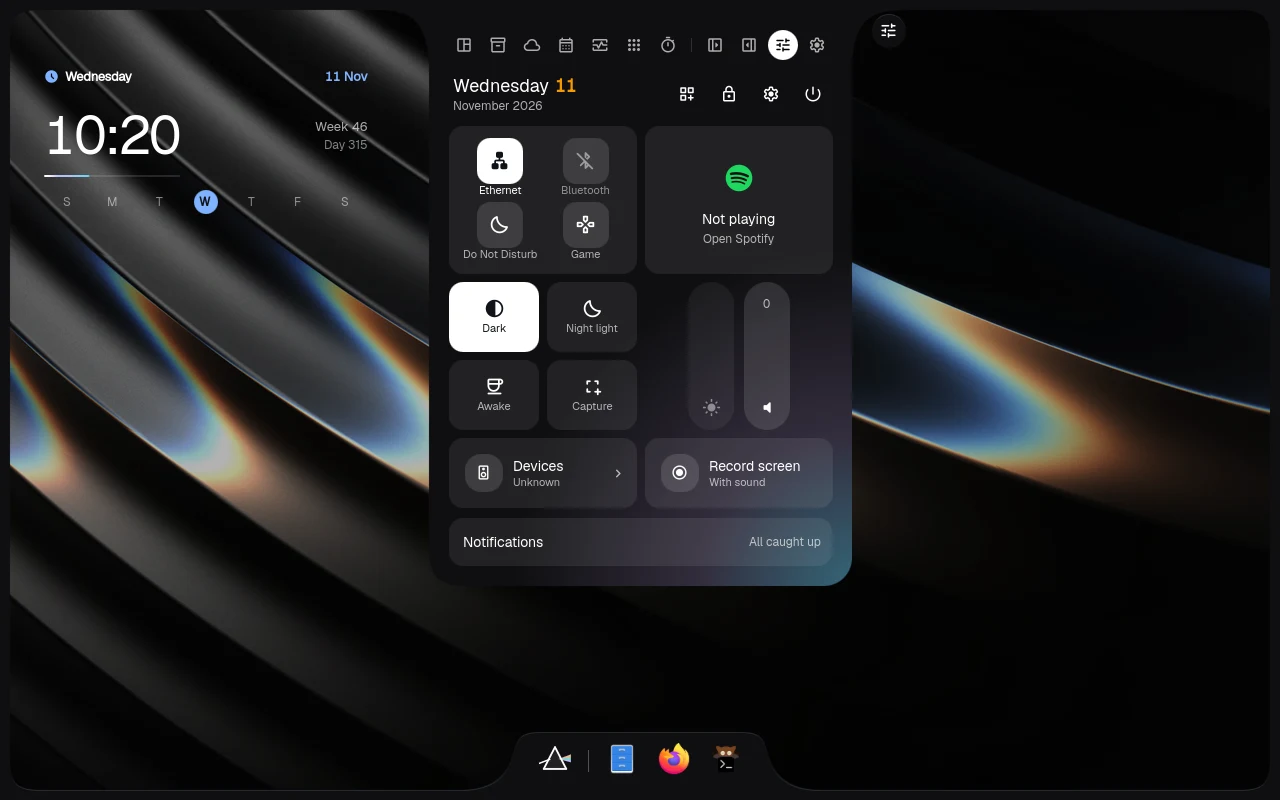
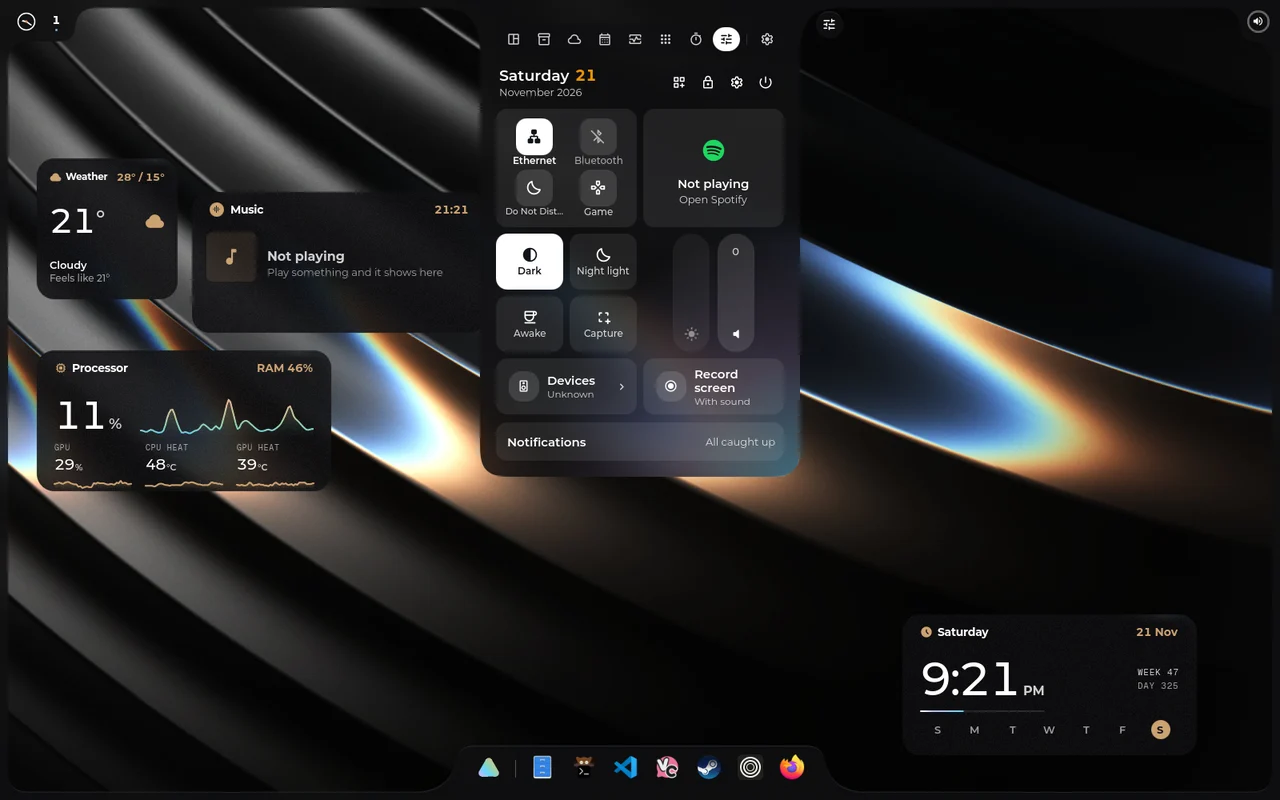
feat(prism): a spectrum mark, hour and smoked glass
The scribbled prism gives way to one solid prism lit by the spectrum.
The resting Island shows the hour over a short line of the spectrum,
which opens under the pointer. Prism wears the spectrum light on the
desktop widgets and keeps its near-black over any wallpaper (tint 0.84).
The docs and the preview follow.

This code was written by: Hikari.

diff --git a/designs/prism/island/Face.qml b/designs/prism/island/Face.qml
@@ -1,140 +1,53 @@
 pragma ComponentBehavior: Bound
 import QtQuick
-import QtQuick.Shapes
-import QtQuick.Effects
-import qs
-import qs.services
-import qs.modules.common
-import qs.modules.common.functions
 import qs.modules.iris.style
 import qs.modules.iris.components
 
-// Prism's Island face: the hour is the prism. A thread of white light enters from the strip's start and meets the time;
-// the spectrum leaves its far side as a fan, from a point, wider and softer as it goes (Prism's refraction, the one in
-// its Settings hero). Beam and fan are equally long, so the hour stays in the middle of the strip. At rest the light is
-// low; under the pointer it comes up full. Only the rest belongs to it: a song rides as the engine's wings, the rest of
-// the Island's moments are the engine's.
+// Prism's Island face: the hour over a short line of the spectrum (IrisStyle.prismStops, the shell's one), the light
+// the hour splits into. No beam or fan beside it (his 11-21: they read as a scribble): the line sits centred under the
+// figures and opens to their full width under the pointer. Only the rest belongs to it: a song rides as the engine's
+// wings, the rest of the Island's moments are the engine's.
 Item {
     id: root
     property var island: null
     readonly property var modes: ["idle", "clock"]
     readonly property real d: IrisStyle.density
     readonly property real h: root.island?.compactHeight ?? 42
-    // How far the light runs on each side of the hour, and the air between it and the figures.
-    readonly property real reach: Math.round(Math.max(20 * root.d, root.h * 0.78))
-    readonly property real gap: Math.round(6 * root.d)
-    readonly property real contentWidth: clock.implicitWidth + 2 * (root.reach + root.gap)
-    readonly property real line: Math.max(1.5, Math.round(2 * root.d))
-    readonly property real mid: root.height / 2
-    // The light climbs as it crosses the hour, lower left to upper right like the refraction in Prism's hero: the beam
-    // enters from below the middle, the fan leaves above it, wider than it came.
-    readonly property real rise: Math.round(root.h * 0.16)
-    readonly property real fanTop: root.mid - root.rise - Math.round(root.h * 0.2)
-    readonly property real fanFoot: root.mid - root.rise + Math.round(root.h * 0.2)
-
-    // The light's strength: quiet at rest, full under the pointer.
-    property real glow: hover.hovered ? 1 : 0.72 // iris-literal: the light at rest, a quiet share of full
-    Behavior on glow { NumberAnimation { duration: IrisStyle.motionEnabled ? 280 : 0; easing.type: Easing.OutCubic } }
-    HoverHandler { id: hover }
-
-    // White light on a dark body, the ink on a light one.
-    readonly property color white: IrisStyle.text
-    // The spectrum is the shell's one (IrisStyle.prismStops, violet to red): soft and even, leaning to the accent.
+    readonly property real pad: Math.round(Math.max(14 * root.d, root.h * 0.36))
+    readonly property real contentWidth: clock.implicitWidth + 2 * root.pad
+    readonly property real line: Math.max(2, Math.round(2 * root.d))
+    readonly property real gap: Math.max(2, Math.round(3 * root.d))
     readonly property var stops: IrisStyle.prismStops
+
+    HoverHandler { id: hover }
 
     IrisClock {
         id: clock
-        anchors.centerIn: parent
+        anchors.horizontalCenter: parent.horizontalCenter
+        // The hour and its line stand as one block in the strip's middle.
+        y: Math.round((root.height - clock.height - root.gap - root.line) / 2)
         family: IrisStyle.figureFace(pixelSize)
         minorFamily: family
         pixelSize: root.island?.figureSize ?? IrisStyle.typeHeadline
         separatorColor: IrisStyle.textSecondary
     }
 
-    // The beam: a thread from the strip's start, below the middle, brightening as it reaches the hour.
-    Shape {
-        x: clock.x - root.gap - root.reach
-        width: root.reach
-        height: root.height
-        opacity: root.glow
-        preferredRendererType: Shape.CurveRenderer
-        ShapePath {
-            strokeWidth: root.line
-            capStyle: ShapePath.RoundCap
-            fillColor: "transparent"
-            strokeGradient: LinearGradient {
-                x1: 0; y1: 0
-                x2: root.reach; y2: 0
-                GradientStop { position: 0; color: ColorUtils.applyAlpha(root.white, 0) }
-                GradientStop { position: 0.6; color: ColorUtils.applyAlpha(root.white, 0.5) }
-                GradientStop { position: 1; color: root.white }
-            }
-            startX: 0; startY: root.mid + root.rise
-            PathLine { x: root.reach; y: root.mid }
-        }
-    }
-
-    // The fan (pin-spectrum-burst, pin-prism-beam): one sweep of light from a point, its colours running into each
-    // other with no band between them, red above and violet below, wider and fainter as it leaves.
-    Item {
-        id: fan
-        x: clock.x + clock.width + root.gap
-        width: root.reach
-        height: root.height
-        opacity: root.glow
-        readonly property real degrees: 180 / Math.PI
-        readonly property real upper: Math.atan2(root.mid - root.fanTop, fan.width) * fan.degrees
-        readonly property real lower: Math.atan2(root.mid - root.fanFoot, fan.width) * fan.degrees
-        readonly property real sweep: (fan.upper - fan.lower) / 360
-        function at(index: int): real { return fan.sweep * index / 6 }
-
-        Shape {
-            id: light
-            anchors.fill: parent
-            visible: false
-            layer.enabled: true
-            layer.smooth: true
-            preferredRendererType: Shape.CurveRenderer
-            ShapePath {
-                strokeWidth: -1
-                strokeColor: "transparent"
-                fillGradient: ConicalGradient {
-                    centerX: 0; centerY: root.mid
-                    angle: fan.lower
-                    GradientStop { position: fan.at(0); color: root.stops[0] }
-                    GradientStop { position: fan.at(1); color: root.stops[1] }
-                    GradientStop { position: fan.at(2); color: root.stops[2] }
-                    GradientStop { position: fan.at(3); color: root.stops[3] }
-                    GradientStop { position: fan.at(4); color: root.stops[4] }
-                    GradientStop { position: fan.at(5); color: root.stops[5] }
-                    GradientStop { position: fan.at(6); color: root.stops[6] }
-                }
-                startX: 0; startY: root.mid
-                PathLine { x: fan.width; y: root.fanTop }
-                PathLine { x: fan.width; y: root.fanFoot }
-                PathLine { x: 0; y: root.mid }
-            }
-        }
-        // Full where it leaves the hour, gone at the strip's end.
-        Rectangle {
-            id: fall
-            anchors.fill: parent
-            visible: false
-            layer.enabled: true
-            gradient: Gradient {
-                orientation: Gradient.Horizontal
-                GradientStop { position: 0; color: "white" } // iris-literal: a mask's alpha
-                GradientStop { position: 0.5; color: Qt.rgba(1, 1, 1, 0.8) } // iris-literal: a mask's alpha
-                GradientStop { position: 1; color: "transparent" }
-            }
-        }
-        MultiEffect {
-            anchors.fill: parent
-            source: light
-            maskEnabled: true
-            maskSource: fall
-            maskThresholdMin: 0.5
-            maskSpreadAtMin: 1
+    Rectangle {
+        anchors.horizontalCenter: parent.horizontalCenter
+        y: clock.y + clock.height + root.gap
+        height: root.line
+        radius: IrisStyle.capsule(height)
+        width: Math.round(clock.width * (hover.hovered ? 1 : 0.42))
+        Behavior on width { NumberAnimation { duration: IrisStyle.duration(260); easing.type: Easing.OutCubic } }
+        gradient: Gradient {
+            orientation: Gradient.Horizontal
+            GradientStop { position: 0; color: root.stops[0] }
+            GradientStop { position: 1 / 6; color: root.stops[1] }
+            GradientStop { position: 2 / 6; color: root.stops[2] }
+            GradientStop { position: 3 / 6; color: root.stops[3] }
+            GradientStop { position: 4 / 6; color: root.stops[4] }
+            GradientStop { position: 5 / 6; color: root.stops[5] }
+            GradientStop { position: 1; color: root.stops[6] }
         }
     }
 }

diff --git a/designs/prism/parts/Insignia.qml b/designs/prism/parts/Insignia.qml
@@ -1,73 +1,68 @@
 import QtQuick
 import QtQuick.Shapes
-import qs.modules.common.functions
 import qs.modules.iris.style
 
-// The Prism insignia: a glass triangle in the ink, a thread of light entering its left face and the spectrum leaving
-// its right one. Drawn on a 100-unit grid and scaled to the host's size; small, the fan keeps three bands. A host that
-// asks for a colour other than the accent (a lit tile's ink) gets the whole mark in that colour.
+// The Prism insignia: one prism, its corners rounded, lit through with the spectrum from its lower left to its upper
+// right (IrisStyle.prismStops, the shell's one). A single solid shape, nothing around it (his 11-21: the beam and fan
+// round a stroked triangle read as a scribble in the Dock), so it reads the same at a Dock's size and at a page's. A
+// host that asks for a colour other than the accent (a lit tile's ink) gets the prism in that colour.
 Item {
     id: root
     property Item host: null
     property color ink: !root.host || Qt.colorEqual(root.host.color, IrisStyle.accent) ? IrisStyle.text : root.host.color
     readonly property bool mono: !!root.host && !Qt.colorEqual(root.host.color, IrisStyle.accent)
-    readonly property real size: Math.min(width, height)
-    readonly property real unit: root.size / 100
-    readonly property bool small: root.size < 40
-    // The spectrum, the shell's one (IrisStyle.prismStops, violet to red); in one colour, that ink fading.
     readonly property var stops: IrisStyle.prismStops
-    function tone(index: int): color {
-        return root.mono ? ColorUtils.applyAlpha(root.ink, 0.25 + 0.6 * index / 6) : root.stops[index]
+    function tone(index: int): color { return root.mono ? root.ink : root.stops[index] }
+
+    // An even triangle on a 100-unit grid, its point up, its corners round; the shape sits centred in the box.
+    readonly property real side: 96
+    readonly property real tall: root.side * Math.sqrt(3) / 2
+    readonly property real corner: 13
+    // How far each corner's curve starts from the point it rounds (the corner's radius over tan 30°).
+    readonly property real cut: root.corner * Math.sqrt(3)
+    // The rounded shape stands from the top curve's crest to the base: centre that span.
+    readonly property real apex: 50 - (root.tall - root.corner) / 2 - root.corner
+    readonly property point a: Qt.point(50, root.apex)
+    readonly property point b: Qt.point(50 + root.side / 2, root.apex + root.tall)
+    readonly property point c: Qt.point(50 - root.side / 2, root.apex + root.tall)
+    function toward(from: point, to: point, by: real): point {
+        const len = Math.hypot(to.x - from.x, to.y - from.y)
+        return Qt.point(from.x + (to.x - from.x) * by / len, from.y + (to.y - from.y) * by / len)
     }
-    // The fan leaves the right face from one point: one sweep of light, no band between its colours.
-    readonly property real upper: Math.atan2(50 - 36, 38) * 180 / Math.PI
-    readonly property real lower: Math.atan2(50 - 60, 38) * 180 / Math.PI
-    function at(index: int): real { return (root.upper - root.lower) / 360 * index / 6 }
+    readonly property point ab: root.toward(root.a, root.b, root.cut)
+    readonly property point ba: root.toward(root.b, root.a, root.cut)
+    readonly property point bc: root.toward(root.b, root.c, root.cut)
+    readonly property point cb: root.toward(root.c, root.b, root.cut)
+    readonly property point ca: root.toward(root.c, root.a, root.cut)
+    readonly property point ac: root.toward(root.a, root.c, root.cut)
 
     Shape {
         width: 100
         height: 100
         anchors.centerIn: parent
-        scale: root.unit
+        scale: Math.min(root.width, root.height) / 100
         preferredRendererType: Shape.CurveRenderer
-        // The beam, from the lower left into the left face.
-        ShapePath {
-            strokeWidth: root.small ? 4.5 : 2.5
-            strokeColor: root.ink
-            capStyle: ShapePath.RoundCap
-            fillColor: "transparent"
-            startX: 3; startY: 63
-            PathLine { x: 34; y: 51 }
-        }
         ShapePath {
             strokeWidth: -1
             strokeColor: "transparent"
-            fillGradient: ConicalGradient {
-                centerX: 60; centerY: 50
-                angle: root.lower
-                GradientStop { position: root.at(0); color: root.tone(0) }
-                GradientStop { position: root.at(1); color: root.tone(1) }
-                GradientStop { position: root.at(2); color: root.tone(2) }
-                GradientStop { position: root.at(3); color: root.tone(3) }
-                GradientStop { position: root.at(4); color: root.tone(4) }
-                GradientStop { position: root.at(5); color: root.tone(5) }
-                GradientStop { position: root.at(6); color: root.tone(6) }
+            fillGradient: LinearGradient {
+                x1: root.c.x; y1: root.c.y
+                x2: root.b.x; y2: root.a.y
+                GradientStop { position: 0; color: root.tone(0) }
+                GradientStop { position: 1 / 6; color: root.tone(1) }
+                GradientStop { position: 2 / 6; color: root.tone(2) }
+                GradientStop { position: 3 / 6; color: root.tone(3) }
+                GradientStop { position: 4 / 6; color: root.tone(4) }
+                GradientStop { position: 5 / 6; color: root.tone(5) }
+                GradientStop { position: 1; color: root.tone(6) }
             }
-            startX: 60; startY: 50
-            PathLine { x: 98; y: 36 }
-            PathLine { x: 98; y: 60 }
-            PathLine { x: 60; y: 50 }
-        }
-        // The glass: drawn last so the light meets its faces.
-        ShapePath {
-            strokeWidth: root.small ? 5.5 : 3.5
-            strokeColor: root.ink
-            joinStyle: ShapePath.RoundJoin
-            fillColor: ColorUtils.applyAlpha(root.ink, 0.08)
-            startX: 50; startY: 14
-            PathLine { x: 84; y: 80 }
-            PathLine { x: 16; y: 80 }
-            PathLine { x: 50; y: 14 }
+            startX: root.ab.x; startY: root.ab.y
+            PathLine { x: root.ba.x; y: root.ba.y }
+            PathArc { x: root.bc.x; y: root.bc.y; radiusX: root.corner; radiusY: root.corner }
+            PathLine { x: root.cb.x; y: root.cb.y }
+            PathArc { x: root.ca.x; y: root.ca.y; radiusX: root.corner; radiusY: root.corner }
+            PathLine { x: root.ac.x; y: root.ac.y }
+            PathArc { x: root.ab.x; y: root.ab.y; radiusX: root.corner; radiusY: root.corner }
         }
     }
 }

diff --git a/docs/prism/PRISM.md b/docs/prism/PRISM.md
@@ -15,14 +15,15 @@ were wearing it, iRiS shows again.
 
 - Colour: Prism's three near-blacks and Apple's label inks in dark and ink; in light, Prism's paper whites. Filled
   controls, chosen buttons and today's date are white solids (black in light). Your accent still marks where you are.
-- Shape: Prism's corners (panels 28, cards 18, rows 14) and squircle bubbles and pieces.
-- Material: flat, no rim; each body stands off by its fill. Glass stays your choice.
-- Motion: glide, calm and without bounce.
+- Shape: Prism's corners (panels 28, cards 18, rows 14) and round bubbles and pieces.
+- Material: flat, no rim; each body stands off by its fill. Glass stays your choice, smoked: it keeps Prism's
+  near-black over any wallpaper.
+- Motion: snap, quick and without bounce.
 - Lists and rows: chosen rows and hovers as solid plates, sections ruled by hairlines.
-- Desktop widgets: their Prism faces, frosted glass with one lit colour each. A widget you gave a design of its own
+- Desktop widgets: their Prism faces, their light split into the spectrum. A widget you gave a design of its own
   keeps it.
-- The Island at rest: a thread of white light enters from the left, meets the hour and leaves it as the spectrum.
-  Under the pointer the light comes up full. A song rides beside the hour as usual.
+- The Island at rest: the hour over a short line of the spectrum. Under the pointer the line opens to the hour's
+  full width. A song rides beside the hour as usual.
 
 Everything else (where things are, what shows, your wallpaper, fonts and glass) stays yours. While you wear Prism, the
 rows it decides leave Settings.

diff --git a/designs/prism/README.md b/designs/prism/README.md
@@ -1,13 +1,13 @@
 # Prism
 
 iRiS in the language of Prism, its Settings: the three near-blacks and Apple's label inks, white solids for what is
-chosen, squircle marks, bodies that stand off by their fill, and calm motion. At rest the
-Island's hour is the prism: a thread of white light meets it and leaves as the spectrum.
+chosen, round marks, bodies that stand off by their fill, and quick motion. Its glass keeps a smoked near-black over any
+wallpaper. At rest the Island shows the hour over a short line of the spectrum, which opens under the pointer.
 
 - Wear it: Settings › Style › Design, then Prism. Pick iRiS there to take it off.
 - What it sets (`design.json`): Prism's neutrals in dark, ink and light, white solids (black ones in light) for filled
-  controls and today's date, Prism's corners and squircle pieces, glide motion, and the Prism faces
-  of the desktop widgets. Your accent, highlight, fonts, glass and wallpaper stay yours; your accent still marks where
-  you are.
+  controls and today's date, Prism's corners and round pieces, a smoked tint under glass, quick motion, and the Prism
+  faces of the desktop widgets with their light split into the spectrum. Your accent, highlight, fonts, glass and
+  wallpaper stay yours; your accent still marks where you are.
 - A widget you gave a design of its own keeps it. Taking Prism off gives every widget your own design back.
 - Remove it with `inir hub remove prism`: iRiS shows its own look again, and your settings are untouched.
